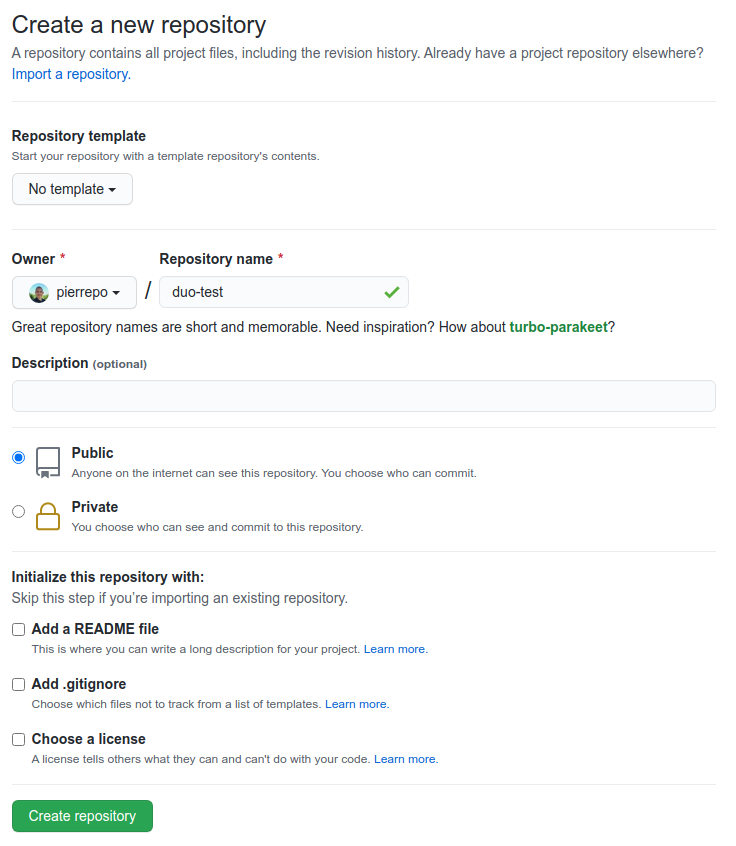
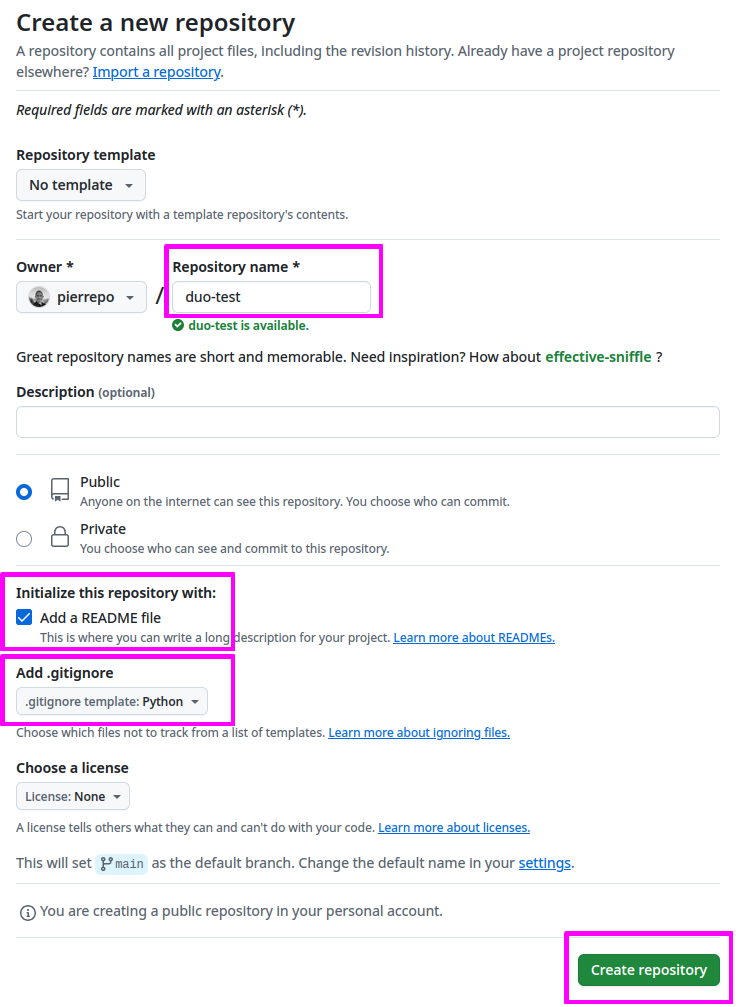
Update instructions for first repo

Changed region(s): [[0.0, 0.0, 0.9375, 0.9835], [0.75, 0.922, 1.0, 1.0]]

diff --git a/content/premier_depot.md b/content/premier_depot.md
@@ -6,15 +6,17 @@ Dans l'interface de GitHub, tout en haut à droite, cliquez sur le symbole `+` p
 
 ![](img/github_create_repo1.png)
 
-Indiquez ensuite *duo-test* comme « *Repository name* » :
+Ensuite :
 
-![](img/github_create_repo2.png)
-
-Laissez tous les autres paramètres par défaut.
+- Indiquez ensuite *duo-test* comme « *Repository name* ».
+- Cochez la case « Add a README file »
+- Ajoutez un fichier `.gitignore` en choisissant « Python » dans la liste déroulante de la section « Add .gitignore ».
 
 Puis cliquez sur le bouton vert « *Create repository* ».
 
-Enfin, notez et copiez l'adresse de connexion de votre dépôt qui débute par `git@github.com`, vous en aurez besoin pour la suite :
+![](img/github_create_repo2.png)
+
+Enfin, cliquez sur le bouton « Code » et copiez l'adresse de connexion de votre dépôt qui débute par `git@github.com`, vous en aurez besoin pour la suite :
 
 ![](img/github_create_repo3.png)
 
@@ -23,27 +25,26 @@ Enfin, notez et copiez l'adresse de connexion de votre dépôt qui débute par `
 Si l'adresse de votre dépôt ne débute pas par `git@github.com` mais par `https://github.com` alors cliquez sur le bouton gris « *SSH* » pour obtenir l'adresse qui débute par `git@github.com`
 ```
 
-## Connexion du dépôt distant (sur GitHub) à votre machine locale
+## Connexion du dépôt distant (sur GitHub) au serveur de l'IFB
 
-Depuis un terminal sur le JupyterLab de l'IFB, vérifiez que vous êtes dans le bon répertoire de travail :
+Depuis un terminal dans l'application JupyterLab de l'IFB, vérifiez que vous êtes dans le bon répertoire de travail :
 
 ```bash
 $ pwd
-/shared/projects/2501_duo/LOGINIFB/intro-git
+/shared/projects/2501_duo/LOGIN-IFB/intro-git
 ```
 
-où `LOGINIFB` est votre identifiant IFB.
+où `LOGIN-IFB` est votre identifiant IFB.
 
 Exécutez ensuite la commande suivante pour cloner votre dépôt distant (qui est sur GitHub) sur le serveur de l'IFB :
 
 ```bash
-$ git clone git@github.com:LOGINGITHUB/duo-test.git
+$ git clone git@github.com:LOGIN-GITHUB/duo-test.git
 ```
 
-où `LOGINGITHUB` est votre identifiant GitHub (pas celui de l'IFB).
+où `LOGIN-GITHUB` est votre identifiant GitHub (pas celui de l'IFB).
 
 ```{note}
-- git pourra éventuellement se plaindre avec le message `warning: You appear to have cloned an empty repository.` C'est tout à fait normal, le dépôt est vide pour le moment, mais nous allons rapidement y ajouter des fichiers.
 - L'adresse de votre dépôt distant doit commencer par `git@github.com`
 ```
 
@@ -55,17 +56,20 @@ $ cd duo-test
 
 Affichez le contenu du répertoire.
 
-Ce répertoire ne contient rien. C'est normal, votre dépôt est vide. Mais ce répertoire est un peu particulier, car il contient en fait un répertoire caché `.git`. Affichez ce répertoire caché avec la commande :
+Ce répertoire contient le fichier `README.md`. Il contient également des fichiers ou répertoires cachés que vous pouvez afficher avec la commande :
 
 ```bash
 $ ls -al
 ```
 
-C'est ce répertoire qui va contenir toute la mémoire du dépôt, donc tout l'historique du dépôt. 🧐 Ne le supprimez pas et ne modifiez pas non plus.
-
 ```{note}
 L'option `-a` de la commande `ls` affiche tous les fichiers et répertoires d'un répertoire, y compris les fichiers et répertoires cachés qui débutent par un point.
 ```
+
+Le fichier `.gitignore` est un fichier caché qui contient la liste des fichiers et répertoires à ignorer par git. Par exemple, les fichiers temporaires créés par l'éditeur de texte ou les fichiers de configuration de l'environnement Python. Ne vous en occupez pas pour l'instant.
+
+Le répertoire `.git` est un répertoire caché. Il contient toute la mémoire du dépôt, donc tout l'historique du dépôt. 🧐 Ne le supprimez pas et ne modifiez pas non plus.
+
 
 ## Configuration du dépôt local
 
@@ -113,7 +117,7 @@ Si vous tapez maintenant la commande `git status` pour savoir ce qui se passe, v
 
 ```
 $ git status
-Sur la branche master
+Sur la branche main
 
 Aucun commit
 
@@ -134,7 +138,7 @@ Un nouveau `git status` renvoie :
 
 ```
 $ git status
-Sur la branche master
+Sur la branche main
 
 Aucun commit
 
@@ -153,7 +157,7 @@ Vous devriez obtenir un résultat du type :
 
 ```bash
 $ git commit -m "Premier commit"
-[master (commit racine) a7b7006] Premier commit
+[main (commit racine) a7b7006] Premier commit
  1 file changed, 1 insertion(+)
  create mode 100644 test1.txt
 ```
@@ -167,10 +171,10 @@ Décompte des objets: 100% (3/3), fait.
 Écriture des objets: 100% (3/3), 236 octets | 236.00 Kio/s, fait.
 Total 3 (delta 0), réutilisés 0 (delta 0)
 To github.com:pierrepo/duo-test.git
- * [new branch]      master -> master
+ * [new branch]      main -> main
 ```
 
-Retournez maintenant sur la page de votre dépôt sur GitHub (a priori `https://github.com/LOGINGITHUB/duo-test` avec `LOGINGITHUB` votre identifiant GitHub) et rafraichissez-la.
+Retournez maintenant sur la page de votre dépôt sur GitHub (a priori `https://github.com/LOGIN-GITHUB/duo-test` avec `LOGIN-GITHUB` votre identifiant GitHub) et rafraichissez-la.
 
 Vous devriez voir le fichier `test1.txt` ! 🥳
 
